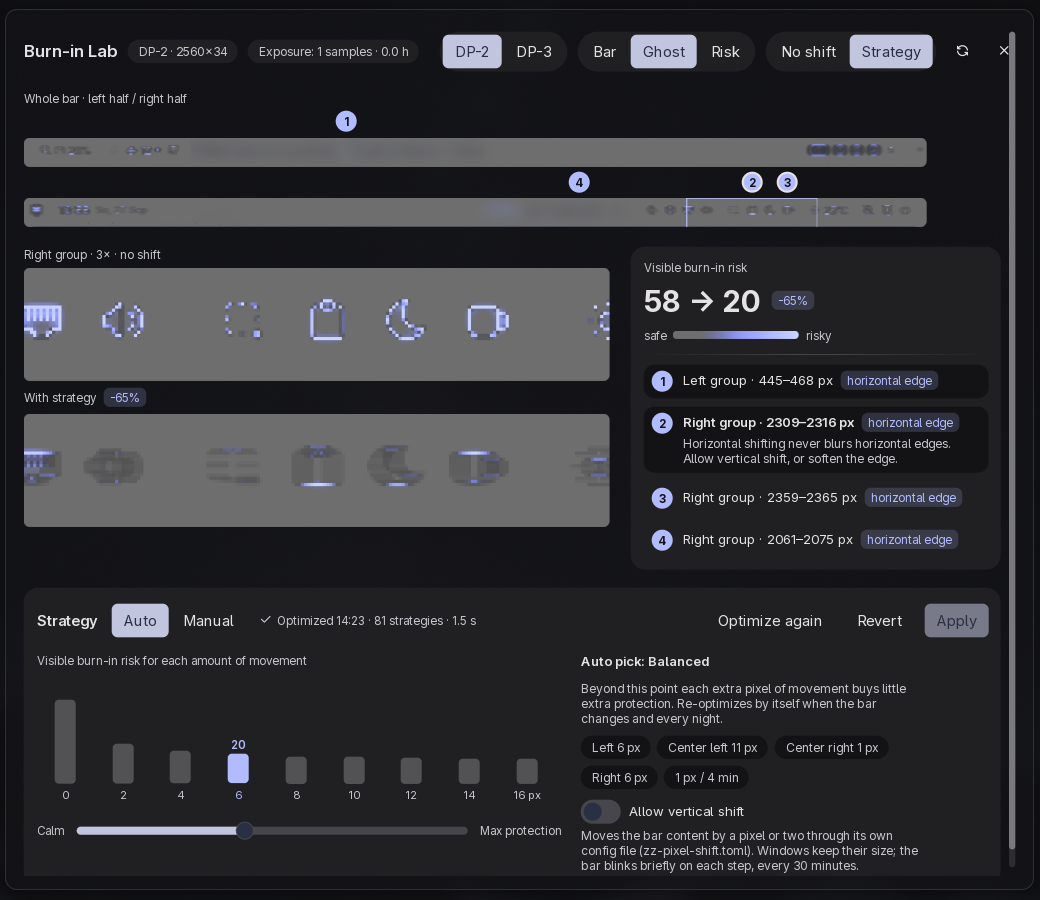
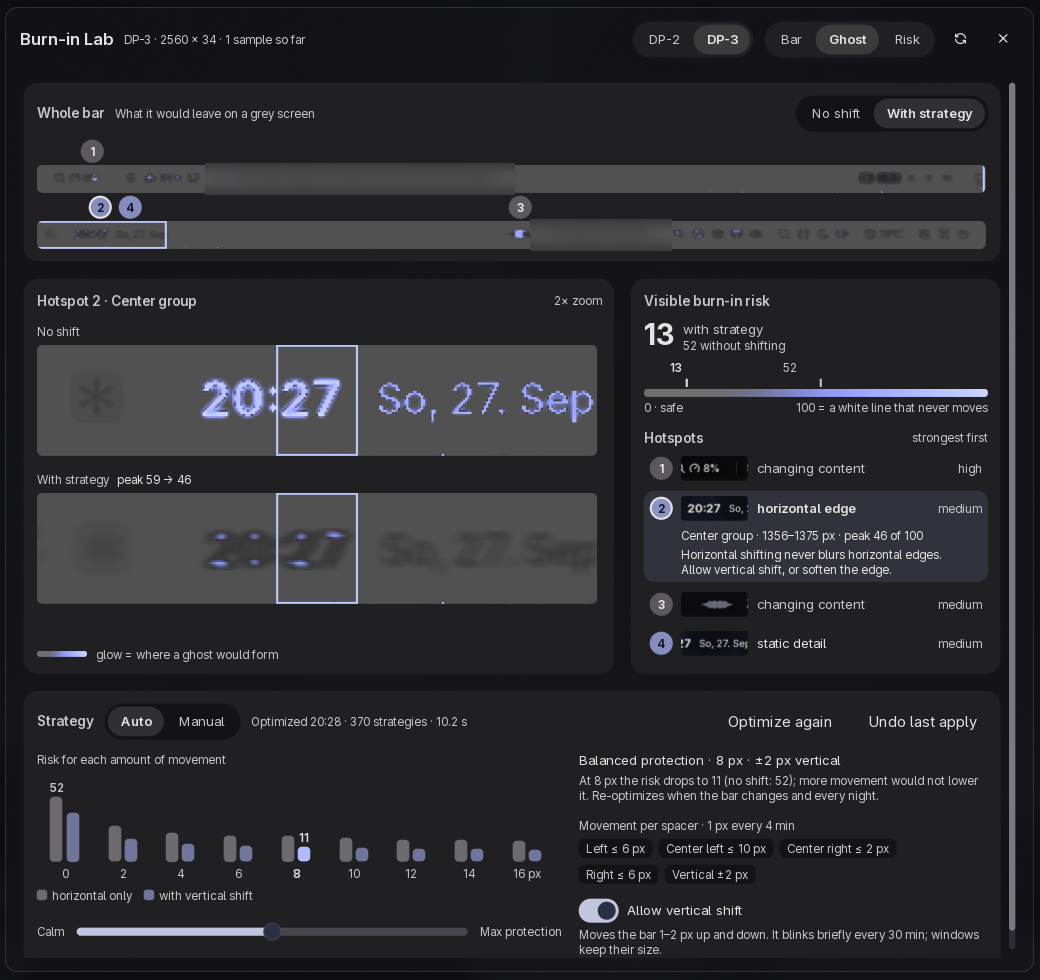
release: Pixel Shift 1.1.0 (new screenshots and thumbnail)
The redesigned Burn-in Lab in the screenshots (window and media titles
blurred) and the thumbnail, made with the official generator from the
new ghost view. The README describes the new lab: the risk scale,
framed hotspots, preview vs live, Apply to bar, Discard, Undo.

diff --git a/pixel-shift/README.md b/pixel-shift/README.md
@@ -59,20 +59,23 @@ from the picture itself and skipped.
    ```
 
    - **Ghost** shows what the bar would leave on a flat grey screen after long use.
-     Hotspots glow in your theme colour, as bright as their risk.
-   - **Risk** and **Bar** show the risk map and the bar itself; **No shift** and
-     **Strategy** compare the two.
+     Hotspots glow in your theme colour, as bright as their risk. **Risk** and **Bar**
+     show the risk map and the bar itself. In the whole-bar view, **No shift** and
+     **With strategy** compare the two.
+   - **Visible burn-in risk** puts both results on one scale from 0 to 100, where 100
+     is a white line that never moves.
    - **Hotspots** are the places where the simulated ghost would still show with the
-     current strategy: the up to four strongest spots above 15 % of a white line that
-     never moves, strongest first. Each one shows the bar at that spot, a level
-     (high from 50 %, medium from 25 %, low below), its cause and what to change, for
-     example a solid fill wider than the shift range. The list also names spacers
-     that sit where they cannot move anything.
-   - **Strategy** shows the risk for every amount of movement. In **Auto** mode Pixel
-     Shift picks the point where more movement stops paying off; move the
-     **Calm ↔ Max protection** slider and press **Apply** to choose another point.
-     **Manual** sets each spacer's range yourself. **Revert** goes back to the
-     previous strategy.
+     current strategy: the up to four strongest spots above 15 of 100, strongest
+     first. Each row shows the bar at that spot, its cause and a level (high from 50,
+     medium from 25, low below). Selecting one frames it up close, before and after,
+     and says what to change, for example a solid fill wider than the shift range.
+     The list also names spacers that sit where they cannot move anything.
+   - **Strategy** shows the risk for every amount of movement and what runs on the
+     bar now. In **Auto** mode Pixel Shift picks the point where more movement stops
+     paying off; moving the **Calm ↔ Max protection** slider previews another point,
+     **Apply to bar** makes it live and **Discard** drops it. **Manual** sets each
+     spacer's range yourself. **Undo last apply** goes back to the strategy that was
+     live before.
 
 4. **Pause when you need a still bar.** Add the **Pixel Shift** tile in
    Settings → Control Center. A click pauses or resumes shifting; a right click opens
